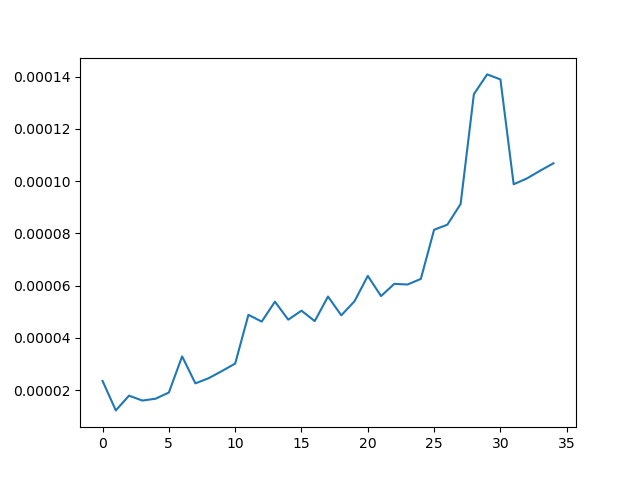
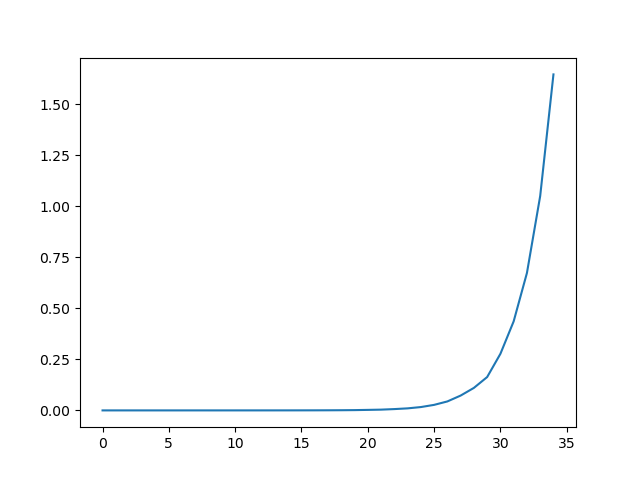
Fixed Pics

diff --git a/lab2/ex1.4.py b/lab2/ex1.4.py
@@ -43,8 +43,8 @@ for j in range(execution_number):
     print(execution_time[0][j],"  ",execution_time[1][k])
 
 plt.plot(x_axis,execution_time[0])
-plt.savefig("ex1.6.2.png")
+plt.savefig("lab2/ex1.6.2.png")
 plt.show()
 plt.plot(x_axis,execution_time[1])
-plt.savefig("ex1.6.2.png")
+plt.savefig("lab2/ex1.6.1.png")
 plt.show()
